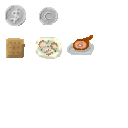
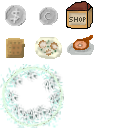
Added a shop graphic, and an awesome looking portal graphic.  Tweaked circles a bit.  I think that's done.

Changed region(s): [[0.0, 0.5, 0.5, 1.0], [0.5, 0.0, 0.75, 0.25]]

diff --git a/src/entity_renderer.cpp b/src/entity_renderer.cpp
@@ -128,7 +128,7 @@ void EntityRenderer::RenderEntity(const Player &p, const Camera &cam) const
 
 void EntityRenderer::SetupCircle()
 {
-	const int steps = 16;
+	const int steps = 128;
 	for (int i=0; i<steps; i++)
 	{
 		float rangle = (float(i) / float(steps)) * glm::radians(360.0f);
@@ -154,8 +154,8 @@ void EntityRenderer::RenderRadius(const Entity &entity, const Camera &cam) const
 		p1 = p1 * radius + worldpos;
 		p2 = p2 * radius + worldpos;
 
-		SDL_RenderDrawLine(renderer.GetRenderer(), p1.x, p1.y, p2.x, p2.y);
-		//SDL_RenderDrawPoint(renderer.GetRenderer(), x+worldpos.x, y+worldpos.y);
+		//SDL_RenderDrawLine(renderer.GetRenderer(), p1.x, p1.y, p2.x, p2.y);
+		SDL_RenderDrawPoint(renderer.GetRenderer(), p1.x, p1.y);
 	}
 }
 
@@ -181,6 +181,12 @@ const Sprite & EntityRenderer::GetSpriteForEntity(const Entity &e) const
 			return food_potatosalad;
 		case ent::food3:
 			return food_ham;
+
+		case ent::shop:
+			return shoppe;
+
+		case ent::portal:
+			return portal;
 
 		case ent::none:
 			return none_sprite;

diff --git a/src/entity_renderer.h b/src/entity_renderer.h
@@ -42,6 +42,8 @@ private:
 	Sprite food_potatosalad { renderer, item_texture, { 32, 32, 32, 32}, { 16, 16} };
 	Sprite food_ham { renderer, item_texture, { 64, 32, 32, 32}, { 16, 16} };
 
+	Sprite shoppe { renderer, item_texture, { 64, 0, 32, 32}, { 16, 16} };
+	Sprite portal { renderer, item_texture, { 0, 64, 64, 64}, { 32, 32} };
 
 
 	sdl::Texture player_texture { renderer, FindFile("player.png") };

diff --git a/src/shop.h b/src/shop.h
@@ -42,7 +42,12 @@ public:
 	SharedInvArea(float x, float y)
 	: ThingsWithInventory(x,y)
 	{
-		name = "Shared Area";
+		entitydef = ent::portal;
+
+		name = "Shared Portal";
+
+
+		delta_heading=360.0f;
 	}
 
 };
@@ -59,6 +64,7 @@ public:
 	, spawn_item(spawn)
 	, price(price)
 	{
+		entitydef = ent::shop;
 		name = "Shop";
 	}
 

diff --git a/src/game.h b/src/game.h
@@ -244,6 +244,8 @@ public:
 	//Update all particles, coins, player
 	void UpdateObjects(float dt)
 	{
+		portal->heading += (whichworld ? 180.0f : -180.0f) * dt;
+
 		UpdatePlayer(dt);
 		UpdateCamera(dt);
 

diff --git a/src/gamedefs.h b/src/gamedefs.h
@@ -15,7 +15,9 @@ enum class ent
 	food,
 	food1,
 	food2,
-	food3
+	food3,
+	shop,
+	portal
 };
 
 
